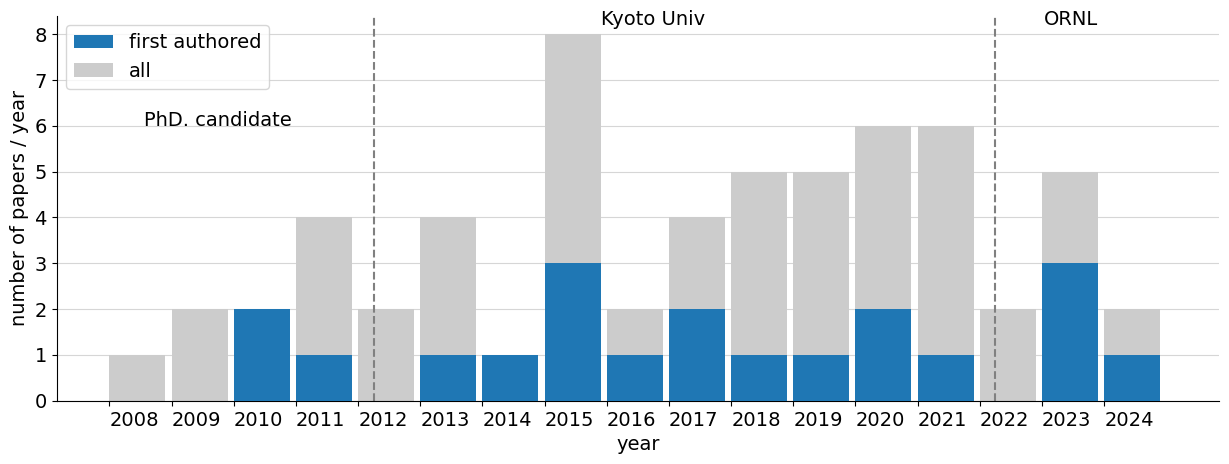
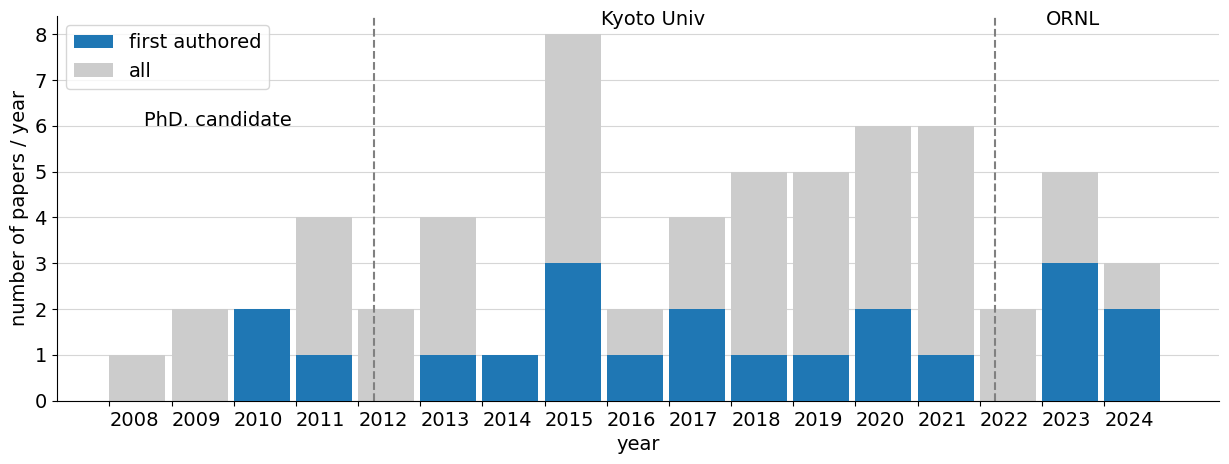
Added mccc paper.

Changed region(s): [[0.8967, 0.5431, 0.9585, 0.7845], [0.8348, 0.0, 0.8967, 0.0603]]

diff --git a/publications/index.md b/publications/index.md
@@ -29,102 +29,107 @@ layout: publications
 <a href="https://doi.org/10.1063/1.4863650">10.1063/1.4863650</a>  
 
 # List of papers (first- and corresponding-author)
-1. **Conceptual design of a Doppler spectrometer for 102 m/s cross-field flows in tokamak divertors**  
+1. **Experimental validation of a collision-radiation dataset for molecular hydrogen in plasmas**  
+ **<u>Keisuke Fujii</u>**, Keiji Sawada, Arseniy Kuzmin, Motoshi Goto, Masahiro Kobayashi, Liam H. Scarlett, Dmitry V. Fursa, Igor Bray, Mark C. Zammit, Theodore M. Biewer  
+ *Physics of Plasmas* **31,** 092512 (2024)  
+<a href="https://doi.org/10.1063/5.0220933">10.1063/5.0220933</a>  
+
+2. **Conceptual design of a Doppler spectrometer for 102 m/s cross-field flows in tokamak divertors**  
  **<u>K. Fujii</u>**, R. Sano, T. Nakano, G. Ronchi, J.-S. Park, J. D. Lore, M. Shafer, T. M. Biewer  
  *Review of Scientific Instruments* **95,** 073527 (2024)  
 <a href="https://doi.org/10.1063/5.0219456">10.1063/5.0219456</a>  
 
-2. **Plasma-parameter dependence of ro-vibrational temperatures for H2 in LHD divertor**  
+3. **Plasma-parameter dependence of ro-vibrational temperatures for H2 in LHD divertor**  
  **<u>Keisuke Fujii</u>**, Tsubasa Oshioka, Atsushi Niihama, Arseniy Kuzmin, Taiichi Shikama, Masahiro Kobayashi, Masahiro Hasuo  
  *Journal of Quantitative Spectroscopy and Radiative Transfer* **310,** 108751 (2023)  
 <a href="https://doi.org/10.1016/j.jqsrt.2023.108751">10.1016/j.jqsrt.2023.108751</a>  
 
-3. **Collisional-energy-cascade model for nonthermal velocity distributions of neutral atoms in plasmas**  
+4. **Collisional-energy-cascade model for nonthermal velocity distributions of neutral atoms in plasmas**  
  **<u>Keisuke Fujii</u>**  
  *Physical Review E* **108,** 025204 (2023)  
 <a href="https://doi.org/10.1103/PhysRevE.108.025204">10.1103/PhysRevE.108.025204</a>  
 
-4. **A simple data-driven level finding method of many-electron atoms and heavy nuclei based on statistical outlier detection**  
+5. **A simple data-driven level finding method of many-electron atoms and heavy nuclei based on statistical outlier detection**  
  Kazuaki Hongu, **<u>Keisuke Fujii</u>**  
  *Journal of Physics D: Applied Physics* **56,** 244002 (2023)  
 <a href="https://doi.org/10.1088/1361-6463/acc66f">10.1088/1361-6463/acc66f</a>  
 
-5. **Power-Law Intensity Distribution of γ-Decay Cascades: Nuclear Structure as a Scale-Free Random Network**  
+6. **Power-Law Intensity Distribution of γ-Decay Cascades: Nuclear Structure as a Scale-Free Random Network**  
  **<u>Keisuke Fujii</u>**, Julian C. Berengut  
  *Physical Review Letters* **126,** 102502 (2021)  
 <a href="https://doi.org/10.1103/PhysRevLett.126.102502">10.1103/PhysRevLett.126.102502</a>  
 
-6. **Population kinetics of many-electron atoms in ionizing plasmas studied using a continuous collisional radiative model**  
+7. **Population kinetics of many-electron atoms in ionizing plasmas studied using a continuous collisional radiative model**  
  Akira Nishio, Julian C. Berengut, Masahiro Hasuo, **<u>Keisuke Fujii</u>**  
  *Physical Review E* **102,** 053211 (2020)  
 <a href="https://doi.org/10.1103/PhysRevE.102.053211">10.1103/PhysRevE.102.053211</a>  
 
-7. **Simple Explanation for the Observed Power Law Distribution of Line Intensity in Complex Many-Electron Atoms**  
+8. **Simple Explanation for the Observed Power Law Distribution of Line Intensity in Complex Many-Electron Atoms**  
  **<u>Keisuke Fujii</u>**, Julian C. Berengut  
  *Physical Review Letters* **124,** 185002 (2020)  
 <a href="https://doi.org/10.1103/physrevlett.124.185002">10.1103/physrevlett.124.185002</a>  
 
-8. **Robust Regression for Automatic Fusion Plasma Analysis Based on Generative Modeling**  
+9. **Robust Regression for Automatic Fusion Plasma Analysis Based on Generative Modeling**  
  **<u>K. Fujii</u>**, C. Suzuki, M. Hasuo  
  *IEEE Transactions on Plasma Science* **47,** 3305-3314 (2019)  
 <a href="https://doi.org/10.1109/TPS.2019.2921073">10.1109/TPS.2019.2921073</a>  
 
-9. **Machine Learning of Noise in LHD Thomson Scattering System**  
+10. **Machine Learning of Noise in LHD Thomson Scattering System**  
  **<u>Keisuke Fujii</u>**, Ichihiro Yamada, Masahiro Hasuo  
  *Fusion Science and Technology* **74,** 57-64 (2018)  
 <a href="https://doi.org/10.1080/15361055.2017.1396179">10.1080/15361055.2017.1396179</a>  
 
-10. **Experimental evaluation of fractional abundance data for W23+–W28+**  
+11. **Experimental evaluation of fractional abundance data for W23+–W28+**  
  **<u>Keisuke Fujii</u>**, Daiji Kato, Nobuyuki Nakamura, Motoshi Goto, Shigeru Morita, Masahiro Hasuo  
  *Journal of Physics B: Atomic, Molecular and Optical Physics* **50,** 055004 (2017)  
 <a href="https://doi.org/10.1088/1361-6455/50/5/055004">10.1088/1361-6455/50/5/055004</a>  
 
-11. **Data-driven sensitivity inference for Thomson scattering electron density measurement systems**  
+12. **Data-driven sensitivity inference for Thomson scattering electron density measurement systems**  
  **<u>Keisuke Fujii</u>**, Ichihiro Yamada, Masahiro Hasuo  
  *Review of Scientific Instruments* **88,** 013508 (2017)  
 <a href="https://doi.org/10.1063/1.4974344">10.1063/1.4974344</a>  
 
-12. **Inversion Methods of the Balmer-α Line Profile for Hydrogen Atom Density Evaluation in High-Temperature Plasmas**  
+13. **Inversion Methods of the Balmer-α Line Profile for Hydrogen Atom Density Evaluation in High-Temperature Plasmas**  
  **<u>Keisuke Fujii</u>**, Motoshi Goto, Shigeru Morita, Masahiro Hasuo  
  *Fusion Science and Technology* **69,** 514-525 (2016)  
 <a href="https://doi.org/10.13182/FST15-168">10.13182/FST15-168</a>  
-
-13. **Visible emission spectroscopy of highly charged tungsten ions in LHD: II. Evaluation of tungsten ion temperature**  
- **<u>K Fujii</u>**, Y Takahashi, Y Nakai, D Kato, M Goto, S Morita, M Hasuo  
- *Physica Scripta* **90,** 125403 (2015)  
-<a href="https://doi.org/10.1088/0031-8949/90/12/125403">10.1088/0031-8949/90/12/125403</a>  
 
 14. **Visible emission spectroscopy of highly charged tungsten ions in LHD: I. Survey of new visible emission lines**  
  M Shinohara, **<u>K Fujii</u>**, D Kato, N Nakamura, M Goto, S Morita, M Hasuo  
  *Physica Scripta* **90,** 125402 (2015)  
 <a href="https://doi.org/10.1088/0031-8949/90/12/125402">10.1088/0031-8949/90/12/125402</a>  
 
-15. **Study of neutral hydrogen transport in LHD core plasmas based on high dynamic-range Balmer-αspectroscopy**  
+15. **Visible emission spectroscopy of highly charged tungsten ions in LHD: II. Evaluation of tungsten ion temperature**  
+ **<u>K Fujii</u>**, Y Takahashi, Y Nakai, D Kato, M Goto, S Morita, M Hasuo  
+ *Physica Scripta* **90,** 125403 (2015)  
+<a href="https://doi.org/10.1088/0031-8949/90/12/125403">10.1088/0031-8949/90/12/125403</a>  
+
+16. **Study of neutral hydrogen transport in LHD core plasmas based on high dynamic-range Balmer-αspectroscopy**  
  **<u>K. Fujii</u>**, M. Goto, S. Morita,  The LHD Experiment Group  
  *Nuclear Fusion* **55,** 063029 (2015)  
 <a href="https://doi.org/10.1088/0029-5515/55/6/063029">10.1088/0029-5515/55/6/063029</a>  
 
-16. **Development of a high dynamic range spectroscopic system for observation of neutral hydrogen atom density distribution in Large Helical Device core plasma**  
+17. **Development of a high dynamic range spectroscopic system for observation of neutral hydrogen atom density distribution in Large Helical Device core plasma**  
  **<u>K. Fujii</u>**, S. Atsumi, S. Watanabe, T. Shikama, M. Goto, S. Morita, M. Hasuo  
  *Review of Scientific Instruments* **85,** 023502 (2014)  
 <a href="https://doi.org/10.1063/1.4863650">10.1063/1.4863650</a>  
 
-17. **Hydrogen transport diagnostics by atomic and molecular emission line profiles simultaneously measured for large helical device**  
+18. **Hydrogen transport diagnostics by atomic and molecular emission line profiles simultaneously measured for large helical device**  
  **<u>K. Fujii</u>**, T. Shikama, M. Goto, S. Morita, M. Hasuo  
  *Physics of Plasmas* **20,** 012514 (2013)  
 <a href="https://doi.org/10.1063/1.4789454">10.1063/1.4789454</a>  
 
-18. **A Collisional-Radiative Model for Hydrogen Atom Including Velocity Changing Collisions**  
+19. **A Collisional-Radiative Model for Hydrogen Atom Including Velocity Changing Collisions**  
  **<u>Keisuke FUJII</u>**, Taiichi SHIKAMA, Keiji SAWADA, Motoshi GOTO, Shigeru MORITA, Masahiro HASUO  
  *Plasma and Fusion Research* **6,** 2401125-2401125 (2011)  
 <a href="https://doi.org/10.1585/pfr.6.2401125">10.1585/pfr.6.2401125</a>  
 
-19. **Kinetic energy measurement of hydrogen in LHD peripheral plasma with a multi-wavelength-range fine-resolution spectrometer**  
+20. **Kinetic energy measurement of hydrogen in LHD peripheral plasma with a multi-wavelength-range fine-resolution spectrometer**  
  **<u>Keisuke Fujii</u>**, Keisuke Mizushiri, Tomomi Nishioka, Taiichi Shikama, Atsushi Iwamae, Motoshi Goto, Shigeru Morita, Masahiro Hasuo  
  *Nuclear Instruments and Methods in Physics Research Section A: Accelerators, Spectrometers, Detectors and Associated Equipment* **623,** 690-692 (2010)  
 <a href="https://doi.org/10.1016/j.nima.2010.02.100">10.1016/j.nima.2010.02.100</a>  
 
-20. **Development of multiwavelength-range fine-resolution spectrometer for hydrogen emissions and its application to large helical device periphery plasmas**  
+21. **Development of multiwavelength-range fine-resolution spectrometer for hydrogen emissions and its application to large helical device periphery plasmas**  
  **<u>K. Fujii</u>**, K. Mizushiri, T. Nishioka, T. Shikama, A. Iwamae, M. Goto, S. Morita, S Kado, K. Sawada, M. Hasuo  
  *Review of Scientific Instruments* **81,** 033106 (2010)  
 <a href="https://doi.org/10.1063/1.3356730">10.1063/1.3356730</a>  
